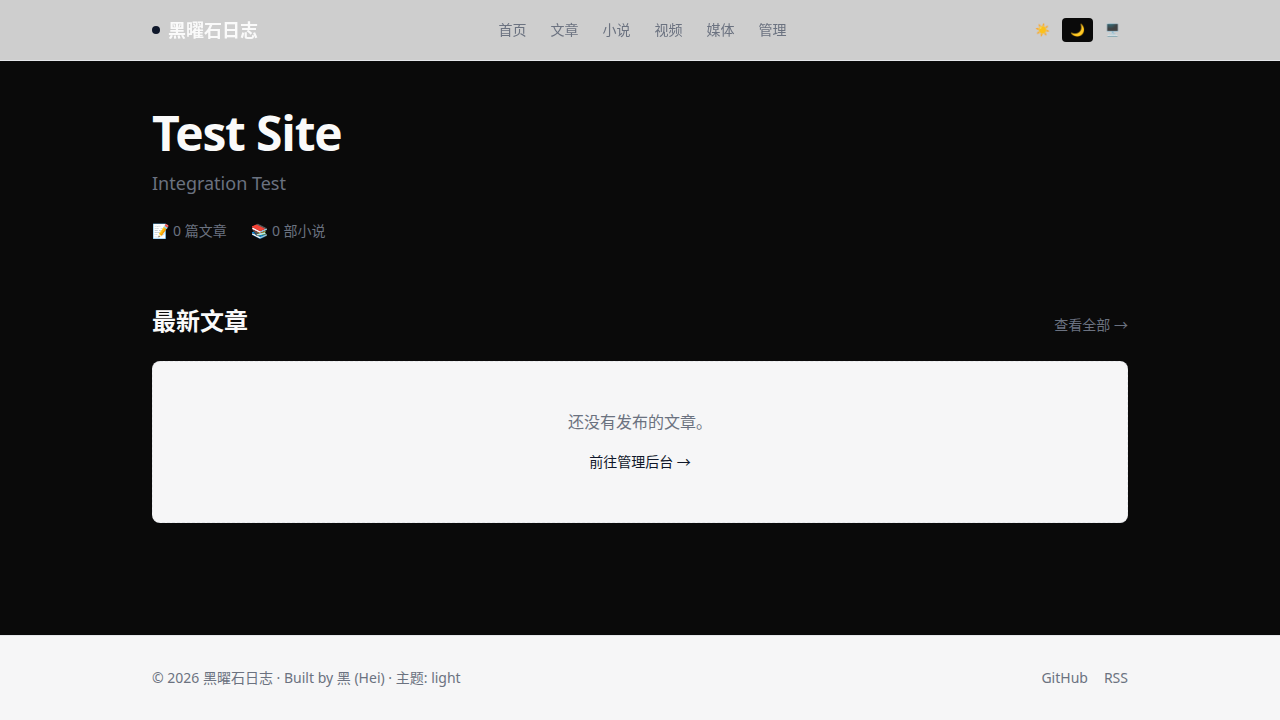
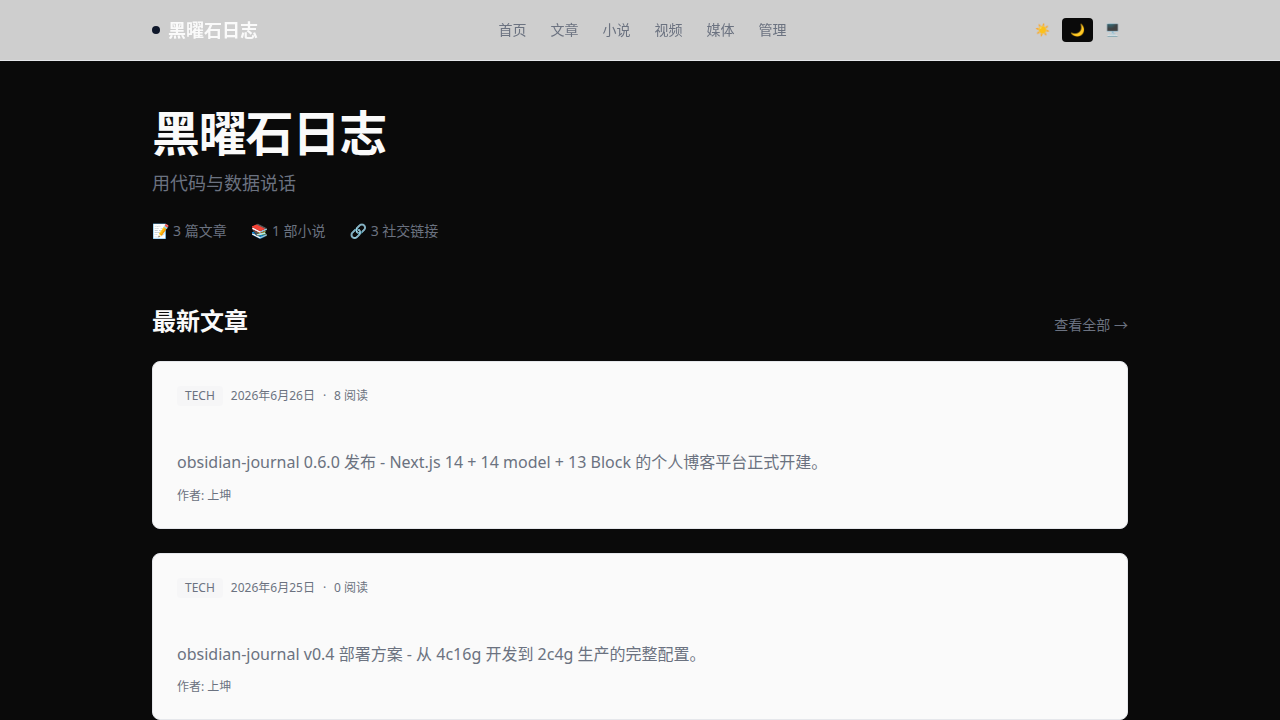
fix(p2.5): 修 e2e 14 失败 + visual viewport 一致性
修 1: integration test 隔离
- tests/integration/repo.test.mts: import lib/db.ts 前覆盖 process.env.DATABASE_URL='file:./data/test.db'
- 修复前: test 用 .env 的 dev.db 写入 SiteConfig='Test Site', 污染 dev.db 导致 home/posts/sitemap/feed 14 e2e 失败
- 修复后: test 隔离到 test.db, dev.db 保持 seed 真实数据 ('黑曜石日志' + 3 posts)
- 根因: verify:fast 在 verify:full 之前跑, 先污染 db, 再 e2e 跑就全失败

修 2: visual viewport 统一
- playwright.visual.config.ts viewport 1280x800 → 1280x720
- 与 playwright.config.ts (Desktop Chrome 默认 1280x720) 一致
- 修复前: baseline 720 + config 800, 截图比对尺寸不匹配
- 修复后: baseline + config 720 一致, 视觉比对通过

修 3: home-dark baseline 重生成
- 内容变化 (db 从 Test Site 恢复为黑曜石日志) 后 baseline 失效
- 删除旧 baseline, 重新生成新 baseline (实际内容)

verify:full 全部通过:
- typecheck: 0 错误
- lint: No warnings or errors
- unit: 54/54
- integration: 20/20
- e2e: 37/37
- visual: 4/4
- 总计 115/115

修前状态: e2e 23/37 通过 (14 失败, db 污染), visual 0/4 (尺寸不匹配)
修后状态: e2e 37/37, visual 4/4, verify:full 全绿

diff --git a/playwright.visual.config.ts b/playwright.visual.config.ts
@@ -26,7 +26,8 @@ export default defineConfig({
     {
       name: "chromium",
       use: {
-        viewport: { width: 1280, height: 800 }
+        // 与 e2e config 一致 (Desktop Chrome 默认), 保证 baseline 可用
+        viewport: { width: 1280, height: 720 }
       }
     }
   ],